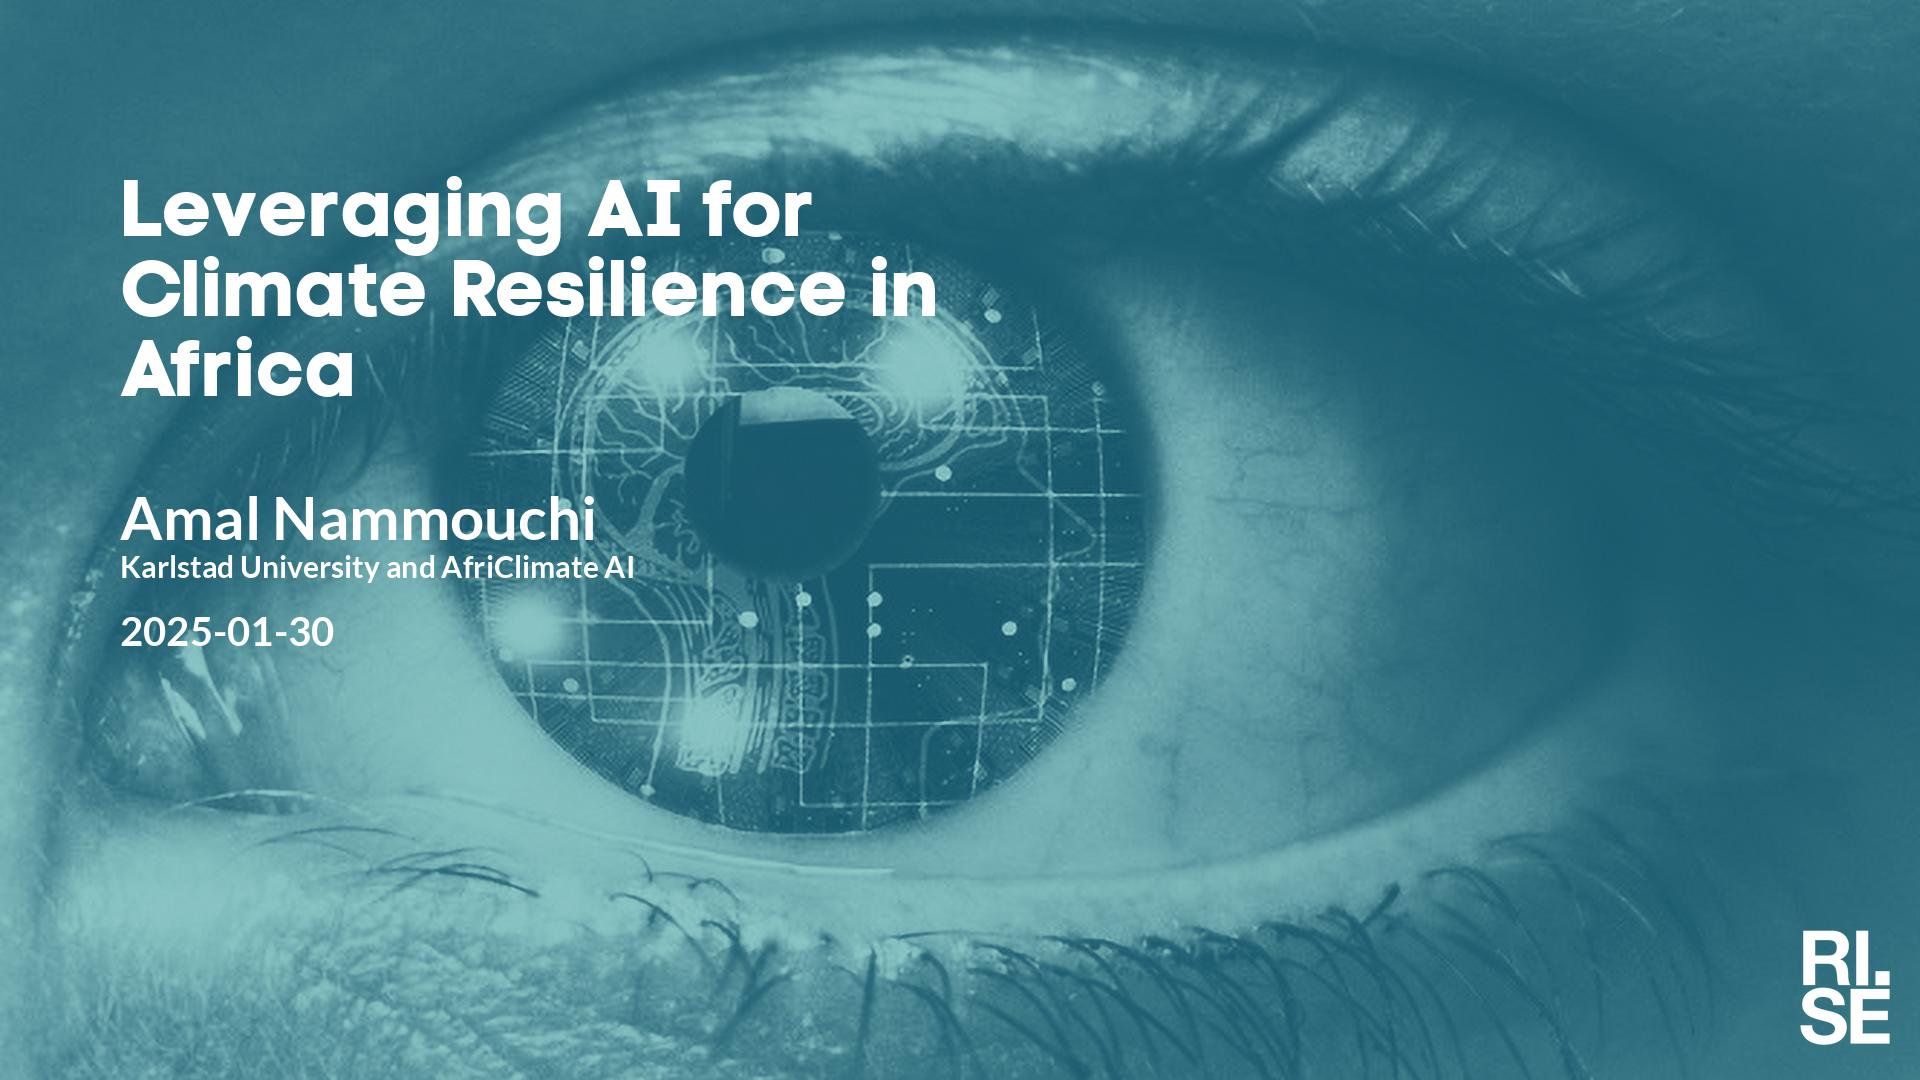
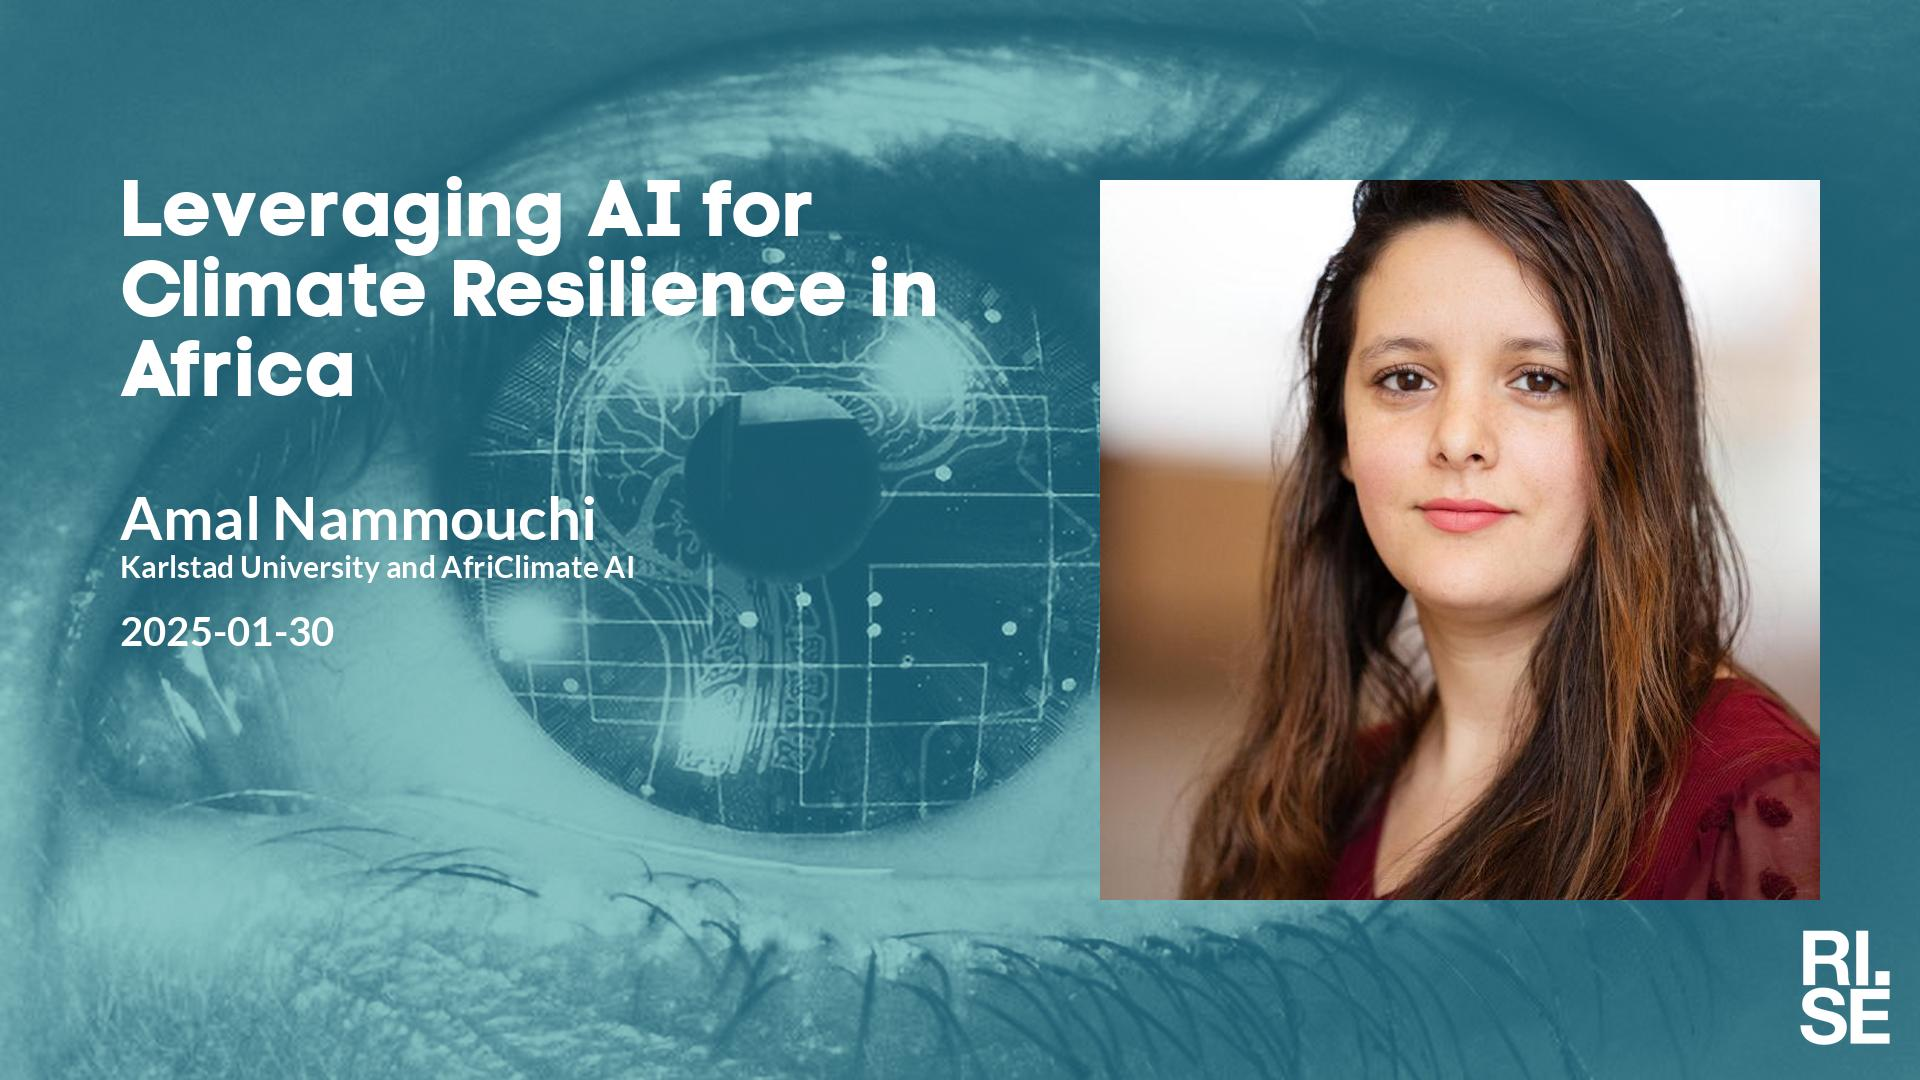
Updated plan on web site.

Changed region(s): [[0.5625, 0.1528, 0.9688, 0.8556]]

diff --git a/lm/index.md b/lm/index.md
@@ -17,7 +17,7 @@ table {border-collapse: collapse;}
 | <span style="color:red"> 2024-12-26 </span> | <span style="color:red"> Jullov </span> | <span style="color:red">  </span> | <span style="color:red">  </span> | <span style="color:red">  </span> | <span style="color:red">  </span> | <span style="color:red"> CANCELLED </span> |
 |  2025-01-16  |  [Oscar Täckström, Sana Labs](2025-01-16.md)  |    |  [social media ](social-media-oscar-tackstrom.jpg)  |  [meeting backdrop ](meeting-backdrop-oscar-tackstrom.jpg)  |  [youtube thumbnail ](youtube-thumbnail-oscar-tackstrom.jpg)  |  S~~TABP~~  |
 |  2025-01-23  |  [Newton Mwai Kinyanjui, Chalmers University of Technology](2025-01-23.md)  |    |  [social media ](social-media-newton-mwai-kinyanjui.jpg)  |  [meeting backdrop ](meeting-backdrop-newton-mwai-kinyanjui.jpg)  |  [youtube thumbnail ](youtube-thumbnail-newton-mwai-kinyanjui.jpg)  |  S~~TABP~~  |
-|  2025-01-30  |  [Amal Nammouchi, Karlstad University and AfriClimate AI](2025-01-30.md)  |    |  [social media ](social-media-amal-nammouchi.jpg)  |  [meeting backdrop ](meeting-backdrop-amal-nammouchi.jpg)  |  [youtube thumbnail ](youtube-thumbnail-amal-nammouchi.jpg)  |  STAB~~P~~  |
+|  2025-01-30  |  [Amal Nammouchi, Karlstad University and AfriClimate AI](2025-01-30.md)  |  [photo](photo-amal-nammouchi.jpg)  |  [social media ](social-media-amal-nammouchi.jpg)  |  [meeting backdrop ](meeting-backdrop-amal-nammouchi.jpg)  |  [youtube thumbnail ](youtube-thumbnail-amal-nammouchi.jpg)  |  STABP  |
 | <span style="color:grey"> 2025-02-06 </span> | <span style="color:grey"> Abdulhakim A. ? </span> | <span style="color:grey">  </span> | <span style="color:grey">  </span> | <span style="color:grey">  </span> | <span style="color:grey">  </span> | <span style="color:grey"> S~~TABP~~ </span> |
 | <span style="color:red"> 2025-02-13 </span> | <span style="color:red"> Sportlov GBG </span> | <span style="color:red">  </span> | <span style="color:red">  </span> | <span style="color:red">  </span> | <span style="color:red">  </span> | <span style="color:red"> CANCELLED </span> |
 | <span style="color:purple"> 2025-02-20 </span> | <span style="color:purple"> *Up for grabs!!!* </span> | <span style="color:purple">  </span> | <span style="color:purple">  </span> | <span style="color:purple">  </span> | <span style="color:purple">  </span> | <span style="color:purple"> ~~STABP~~ </span> |
